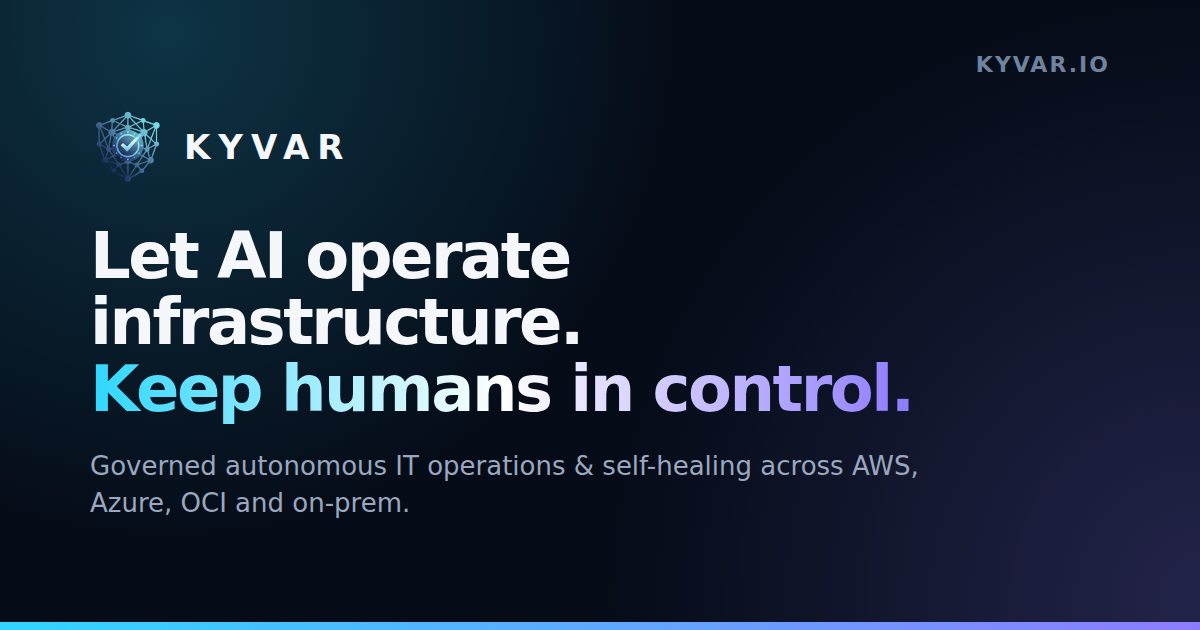
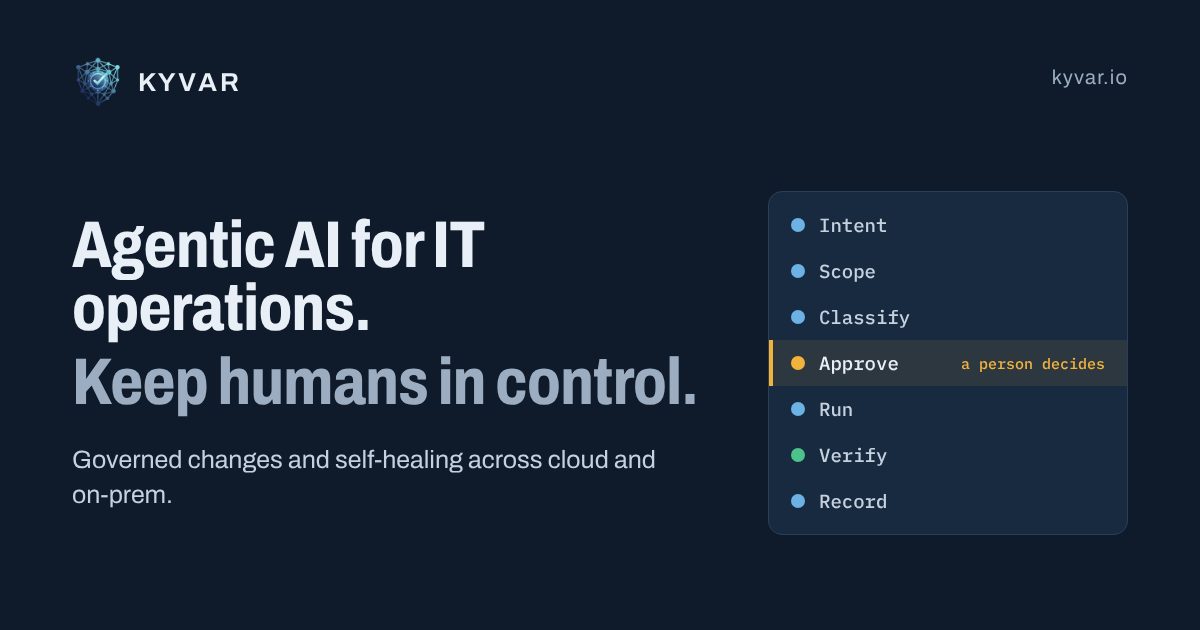
Home hero says agentic AI; prices stay on the pricing page; new share card (#20)
- H1: "Agentic AI for IT operations. Keep humans in control." (was
  "Autonomous IT operations."), matching how KYVAR is positioned
- Home pricing card no longer quotes Team/Business prices, and the
  JSON-LD Offers that would put them in search results are removed;
  the pricing page is unchanged
- og-card.png redrawn on the change-record palette (no gradient text),
  with the new headline and the run record, amber only on Approve;
  og:image:alt updated on every page

Claude-Session: https://claude.ai/code/session_01BniKTqkX923Kh6Nnyc8fW6

diff --git a/index.html b/index.html
@@ -24,7 +24,7 @@
 <meta property="og:image" content="https://kyvar.io/assets/og-card.png">
 <meta property="og:image:width" content="1200">
 <meta property="og:image:height" content="630">
-<meta property="og:image:alt" content="KYVAR — Let AI operate infrastructure. Keep humans in control.">
+<meta property="og:image:alt" content="KYVAR — Agentic AI for IT operations. Keep humans in control.">
 <meta name="twitter:card" content="summary_large_image">
 <meta name="twitter:title" content="Autonomous IT Operations &amp; Self-Healing Infrastructure | KYVAR">
 <meta name="twitter:description" content="Autonomous IT operations with human approval: AI investigates, remediates, and records changes across cloud, on-prem, and the service desk.">
@@ -100,24 +100,6 @@
         "An AI red-team suite of 54 attacks on every path where outside text reaches an agent, run on every change",
         "An extensible connector model — 30 connectors across cloud, virtualization, virtual desktops, servers, identity and devices, network security, service desk, observability, knowledge and delivery — where every new integration inherits the same RBAC, approvals and audit"
       ],
-      "offers": [
-        {
-          "@type": "Offer",
-          "name": "Team",
-          "url": "https://kyvar.io/pricing.html",
-          "price": "36000",
-          "priceCurrency": "USD",
-          "description": "Starting annual platform fee. The pilot is free. Enterprise is quoted individually."
-        },
-        {
-          "@type": "Offer",
-          "name": "Business",
-          "url": "https://kyvar.io/pricing.html",
-          "price": "110000",
-          "priceCurrency": "USD",
-          "description": "Starting annual platform fee."
-        }
-      ],
       "publisher": { "@id": "https://kyvar.io/#org" }
     },
     {
@@ -181,7 +163,7 @@
 <section class="hero">
   <div class="herocopy">
     <p class="meaning"><b>K</b>now. <b>Y</b>ield. <b>V</b>erify. <b>A</b>ct. <b>R</b>ecord.</p>
-    <h1>Autonomous IT operations. <span>Keep humans in control.</span></h1>
+    <h1>Agentic AI for IT operations. <span>Keep humans in control.</span></h1>
     <p>KYVAR is the governance plane for autonomous IT operations: one controlled path from human intent to approved execution, validation, audit and self-healing, across cloud and on-prem.</p>
     <div class="cta">
       <a class="button" href="contact.html">Start a pilot</a>
@@ -533,7 +515,7 @@
     <a class="card" href="/security.html"><b>Security for autonomous IT</b><p>Write gates, identity, tenant isolation, and audit are enforced before a change runs, not added after.</p></a>
     <a class="card" href="/trust.html"><b>Trust center</b><p>Compliance status, where data lives, the controls built in, subprocessors, and shared responsibility.</p></a>
     <a class="card" href="/pilot.html"><b>AI IT operations pilot</b><p>Thirty to sixty days on one real workload. Read-only first, then one approved write path.</p></a>
-    <a class="card" href="/pricing.html"><b>Pricing for governed AI operations</b><p>A free pilot, then Team from $36,000 a year and Business from $110,000. Enterprise is quoted.</p></a>
+    <a class="card" href="/pricing.html"><b>Pricing for governed AI operations</b><p>A free pilot, then an annual platform fee. Model tokens at cost, or on your own key.</p></a>
     <a class="card" href="/contact.html"><b>Start a pilot</b><p>Tell us what you run and what you need to prove. A person replies within one business day.</p></a>
   </div>
   <div class="postgrid">

diff --git a/architecture.html b/architecture.html
@@ -24,7 +24,7 @@
 <meta property="og:image" content="https://kyvar.io/assets/og-card.png">
 <meta property="og:image:width" content="1200">
 <meta property="og:image:height" content="630">
-<meta property="og:image:alt" content="KYVAR — Let AI operate infrastructure. Keep humans in control.">
+<meta property="og:image:alt" content="KYVAR — Agentic AI for IT operations. Keep humans in control.">
 <meta name="twitter:card" content="summary_large_image">
 <meta name="twitter:title" content="IT Automation Architecture for Multi-Cloud and On-Prem | KYVAR">
 <meta name="twitter:description" content="IT automation architecture for multi-cloud and on-prem: a control plane for policy and approval, and runtimes that execute with no inbound exposure.">

diff --git a/security.html b/security.html
@@ -24,7 +24,7 @@
 <meta property="og:image" content="https://kyvar.io/assets/og-card.png">
 <meta property="og:image:width" content="1200">
 <meta property="og:image:height" content="630">
-<meta property="og:image:alt" content="KYVAR — Let AI operate infrastructure. Keep humans in control.">
+<meta property="og:image:alt" content="KYVAR — Agentic AI for IT operations. Keep humans in control.">
 <meta name="twitter:card" content="summary_large_image">
 <meta name="twitter:title" content="Security Controls for Autonomous IT Operations | KYVAR">
 <meta name="twitter:description" content="Security controls for autonomous IT operations: write gates, OIDC and MFA, tenant isolation, credentials that stay in your network, and audit.">

diff --git a/insights/what-is-self-healing-infrastructure.html b/insights/what-is-self-healing-infrastructure.html
@@ -24,7 +24,7 @@
 <meta property="og:image" content="https://kyvar.io/assets/og-card.png">
 <meta property="og:image:width" content="1200">
 <meta property="og:image:height" content="630">
-<meta property="og:image:alt" content="KYVAR — Let AI operate infrastructure. Keep humans in control.">
+<meta property="og:image:alt" content="KYVAR — Agentic AI for IT operations. Keep humans in control.">
 <meta name="twitter:card" content="summary_large_image">
 <meta name="twitter:title" content="What Is Self-Healing Infrastructure? | KYVAR">
 <meta name="twitter:description" content="Self-healing infrastructure detects, diagnoses, remediates, and re-checks a failure without waiting on a person. What that requires in production.">

diff --git a/pilot.html b/pilot.html
@@ -24,7 +24,7 @@
 <meta property="og:image" content="https://kyvar.io/assets/og-card.png">
 <meta property="og:image:width" content="1200">
 <meta property="og:image:height" content="630">
-<meta property="og:image:alt" content="KYVAR — Let AI operate infrastructure. Keep humans in control.">
+<meta property="og:image:alt" content="KYVAR — Agentic AI for IT operations. Keep humans in control.">
 <meta name="twitter:card" content="summary_large_image">
 <meta name="twitter:title" content="AI IT Operations Pilot in 30–60 Days | KYVAR">
 <meta name="twitter:description" content="An AI IT operations pilot in 30–60 days on one real workload. Start read-only, then open one approved write path and measure the result.">

diff --git a/trust.html b/trust.html
@@ -24,7 +24,7 @@
 <meta property="og:image" content="https://kyvar.io/assets/og-card.png">
 <meta property="og:image:width" content="1200">
 <meta property="og:image:height" content="630">
-<meta property="og:image:alt" content="KYVAR — Let AI operate infrastructure. Keep humans in control.">
+<meta property="og:image:alt" content="KYVAR — Agentic AI for IT operations. Keep humans in control.">
 <meta name="twitter:card" content="summary_large_image">
 <meta name="twitter:title" content="Trust Center for AI IT Operations Security | KYVAR">
 <meta name="twitter:description" content="Trust center for AI IT operations: compliance status, where data lives, built-in controls, subprocessors, and shared responsibility.">

diff --git a/insights/autonomous-it-operations-governance.html b/insights/autonomous-it-operations-governance.html
@@ -24,7 +24,7 @@
 <meta property="og:image" content="https://kyvar.io/assets/og-card.png">
 <meta property="og:image:width" content="1200">
 <meta property="og:image:height" content="630">
-<meta property="og:image:alt" content="KYVAR — Let AI operate infrastructure. Keep humans in control.">
+<meta property="og:image:alt" content="KYVAR — Agentic AI for IT operations. Keep humans in control.">
 <meta name="twitter:card" content="summary_large_image">
 <meta name="twitter:title" content="Autonomous IT Operations and Governance | KYVAR">
 <meta name="twitter:description" content="Autonomous IT operations are usable in production only when governance decides what an agent is allowed to do. A practical framework.">

diff --git a/insights/index.html b/insights/index.html
@@ -24,7 +24,7 @@
 <meta property="og:image" content="https://kyvar.io/assets/og-card.png">
 <meta property="og:image:width" content="1200">
 <meta property="og:image:height" content="630">
-<meta property="og:image:alt" content="KYVAR — Let AI operate infrastructure. Keep humans in control.">
+<meta property="og:image:alt" content="KYVAR — Agentic AI for IT operations. Keep humans in control.">
 <meta name="twitter:card" content="summary_large_image">
 <meta name="twitter:title" content="Insights on Autonomous IT and Self-Healing | KYVAR">
 <meta name="twitter:description" content="Notes on autonomous IT operations, self-healing infrastructure, Day 0 and Day 2, automatic monitoring, and governed AI agents.">

diff --git a/pricing.html b/pricing.html
@@ -24,7 +24,7 @@
 <meta property="og:image" content="https://kyvar.io/assets/og-card.png">
 <meta property="og:image:width" content="1200">
 <meta property="og:image:height" content="630">
-<meta property="og:image:alt" content="KYVAR — Let AI operate infrastructure. Keep humans in control.">
+<meta property="og:image:alt" content="KYVAR — Agentic AI for IT operations. Keep humans in control.">
 <meta name="twitter:card" content="summary_large_image">
 <meta name="twitter:title" content="Pricing for Governed AI IT Operations | KYVAR">
 <meta name="twitter:description" content="Pricing for governed AI IT operations: a free pilot, Team from $36,000 a year, Business from $110,000, and Enterprise quoted.">

diff --git a/insights/automatic-monitoring-auto-remediation.html b/insights/automatic-monitoring-auto-remediation.html
@@ -24,7 +24,7 @@
 <meta property="og:image" content="https://kyvar.io/assets/og-card.png">
 <meta property="og:image:width" content="1200">
 <meta property="og:image:height" content="630">
-<meta property="og:image:alt" content="KYVAR — Let AI operate infrastructure. Keep humans in control.">
+<meta property="og:image:alt" content="KYVAR — Agentic AI for IT operations. Keep humans in control.">
 <meta name="twitter:card" content="summary_large_image">
 <meta name="twitter:title" content="From Monitoring to Auto-Remediation | KYVAR">
 <meta name="twitter:description" content="Automatic monitoring that stops at an alert still pages a person. The ladder from health checks to governed auto-remediation.">

diff --git a/insights/aiops-agentic-ai-governed-operator.html b/insights/aiops-agentic-ai-governed-operator.html
@@ -24,7 +24,7 @@
 <meta property="og:image" content="https://kyvar.io/assets/og-card.png">
 <meta property="og:image:width" content="1200">
 <meta property="og:image:height" content="630">
-<meta property="og:image:alt" content="KYVAR — Let AI operate infrastructure. Keep humans in control.">
+<meta property="og:image:alt" content="KYVAR — Agentic AI for IT operations. Keep humans in control.">
 <meta name="twitter:card" content="summary_large_image">
 <meta name="twitter:title" content="AIOps, Copilots, and Agentic AI | KYVAR">
 <meta name="twitter:description" content="AIOps, copilots, agentic AI, and a governed operator are different products. A buyer&#x27;s map of what each one actually does.">

diff --git a/insights/day-0-vs-day-2-operations.html b/insights/day-0-vs-day-2-operations.html
@@ -24,7 +24,7 @@
 <meta property="og:image" content="https://kyvar.io/assets/og-card.png">
 <meta property="og:image:width" content="1200">
 <meta property="og:image:height" content="630">
-<meta property="og:image:alt" content="KYVAR — Let AI operate infrastructure. Keep humans in control.">
+<meta property="og:image:alt" content="KYVAR — Agentic AI for IT operations. Keep humans in control.">
 <meta name="twitter:card" content="summary_large_image">
 <meta name="twitter:title" content="Day 0 vs Day 2 IT Operations | KYVAR">
 <meta name="twitter:description" content="Day 0 is building and Day 2 is running. Why IT automation breaks at that handoff, and what one governed pipeline changes.">
